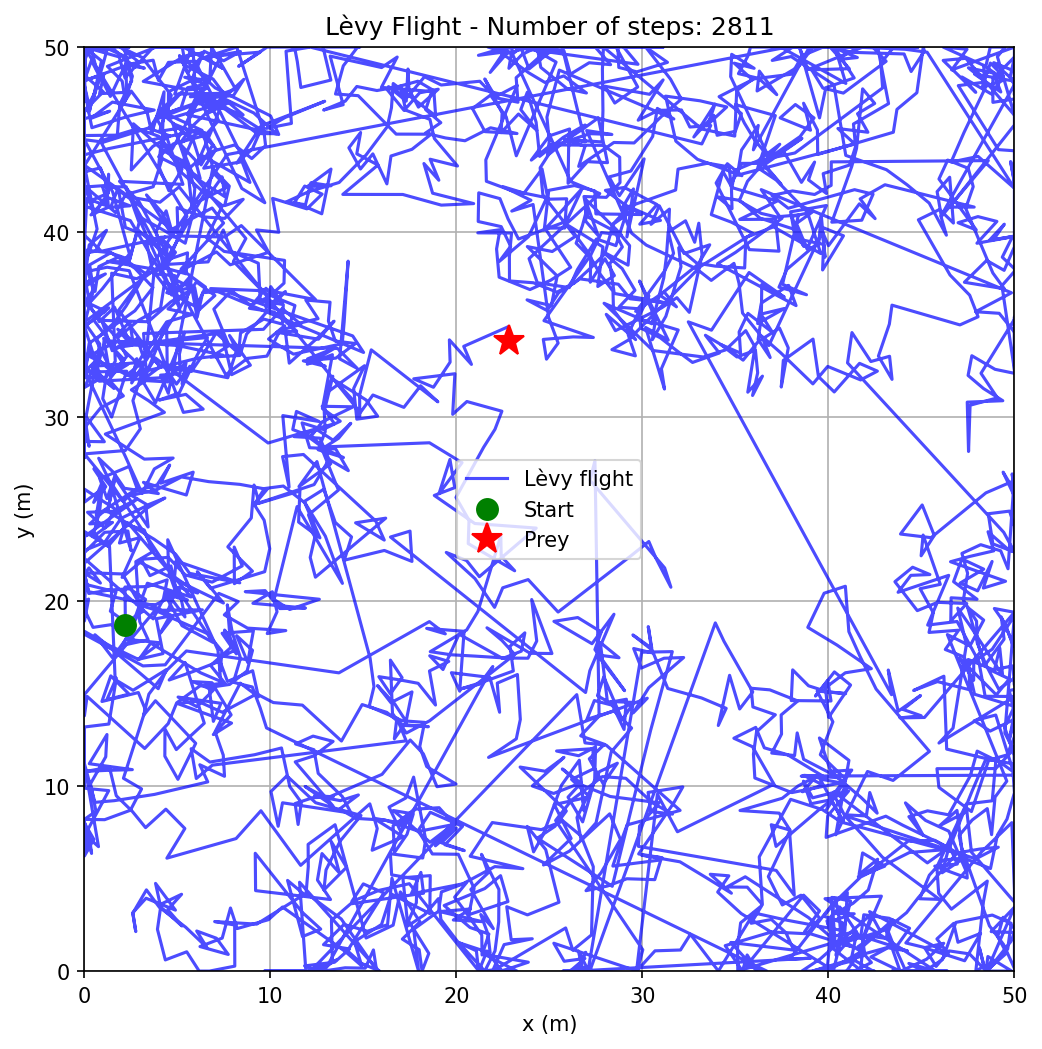
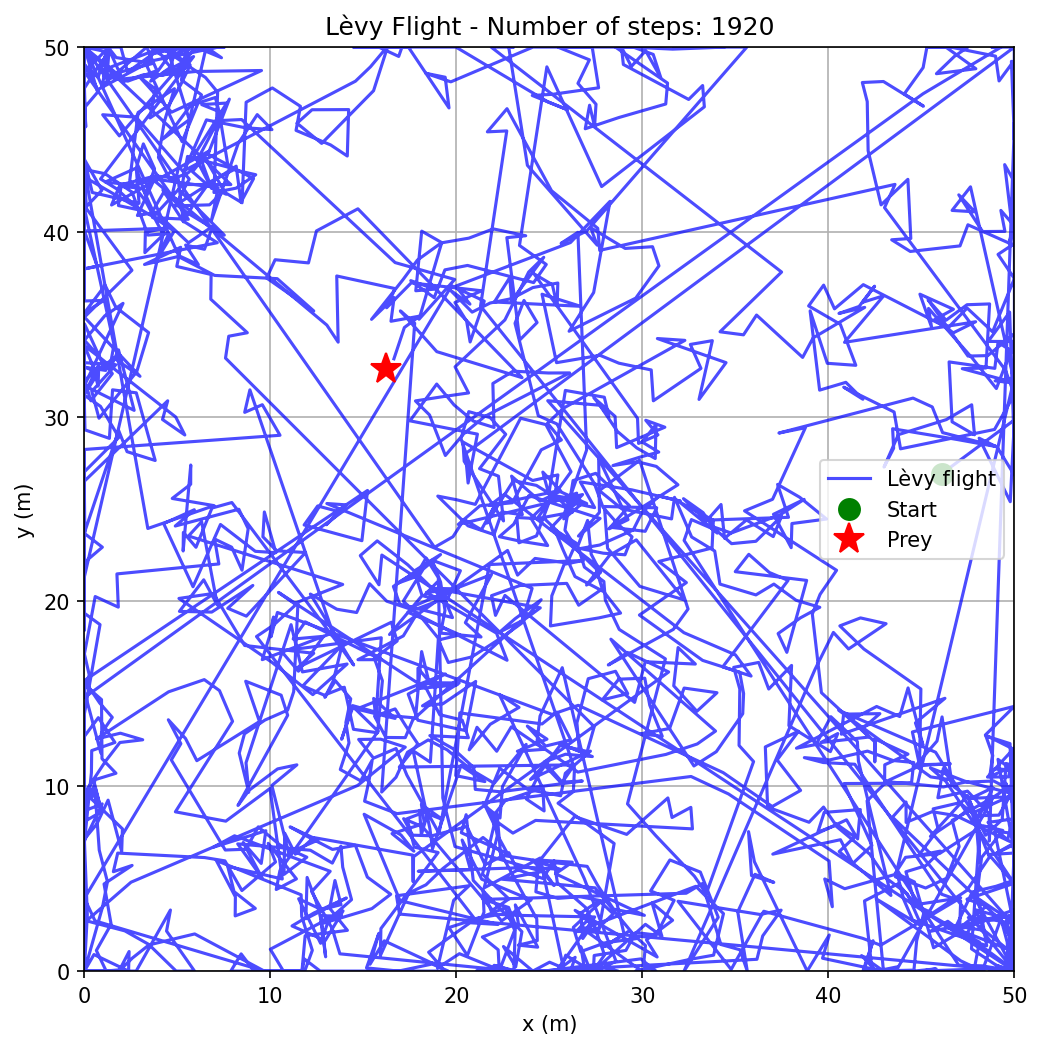
primeraBuena

diff --git a/Levy/Levy.py b/Levy/Levy.py
@@ -2,10 +2,10 @@ import numpy as np
 import matplotlib.pyplot as plt
 
 L=50
-N_pasos=10
-alpha_0=1.1
-alpha_f=3.1
-delta_alpha=0.1
+N_pasos=100000
+alpha_0=1.9
+alpha_f=2.5
+delta_alpha=0.01
 l_min=1.0 #necesario para normalizar la power law
 pasos=0
 
